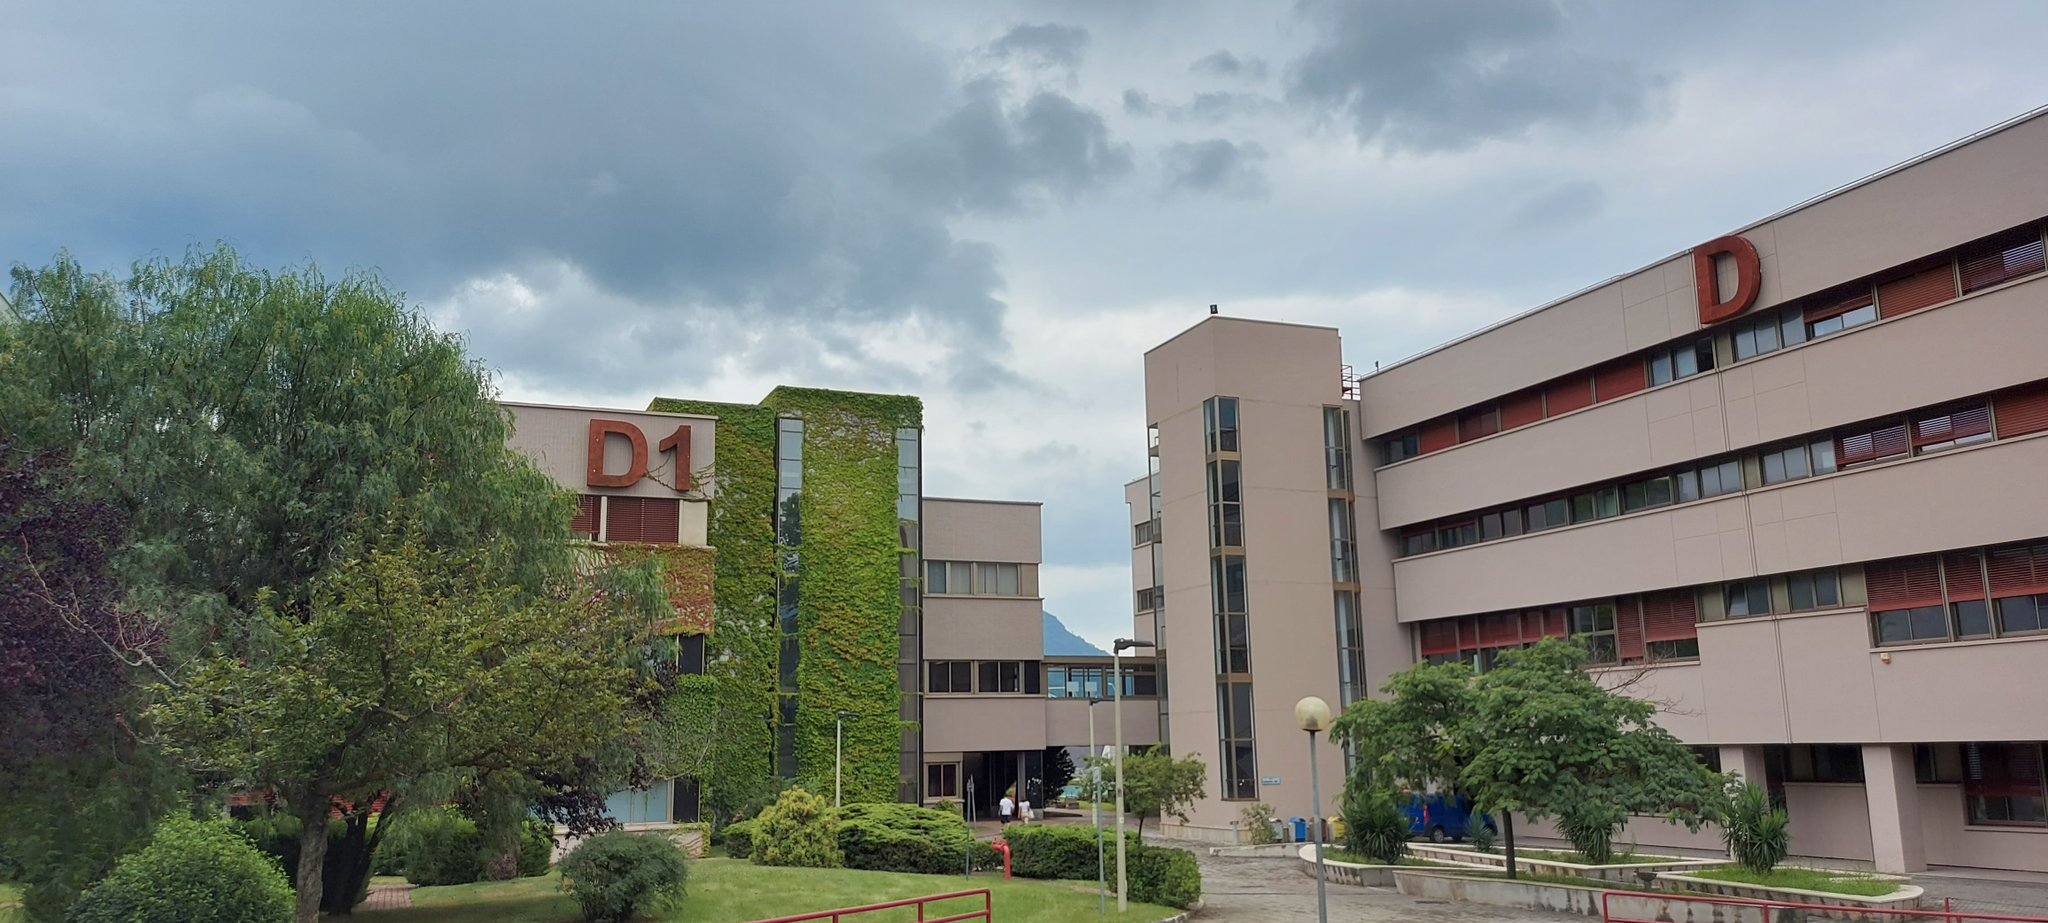
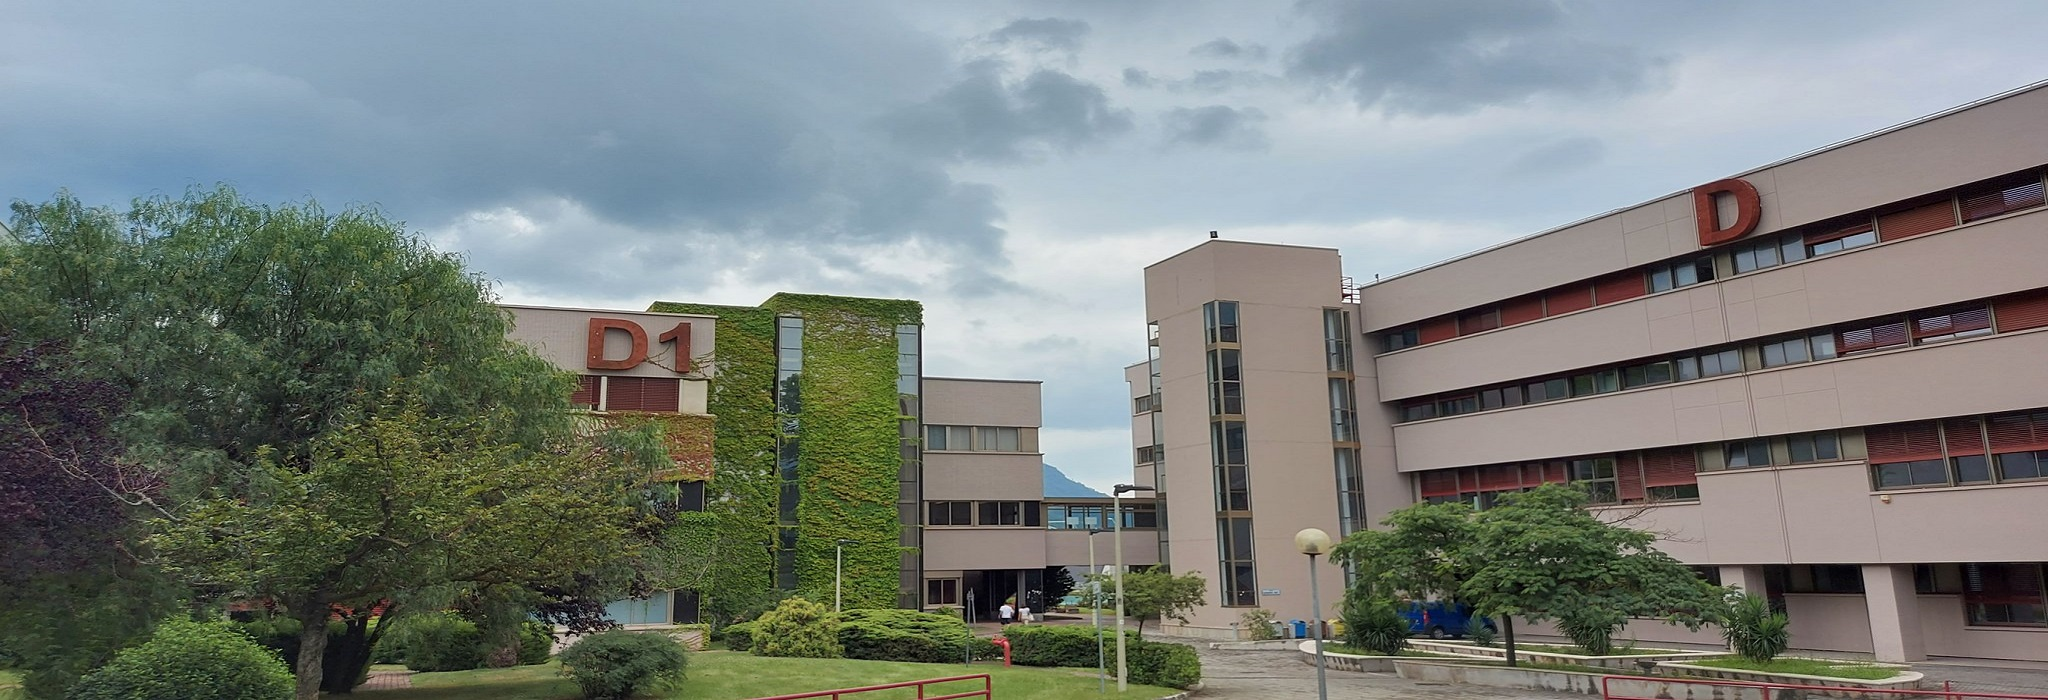
Migliorata l'homepage
-Migliore grafiche superficiali ad altre pagine

diff --git a/src/views/components/gestioneChat/chat.js b/src/views/components/gestioneChat/chat.js
@@ -104,7 +104,6 @@ function Chat()
 
 
 
-
     //ComponentDidMount
     useEffect(() => {
 
@@ -295,15 +294,19 @@ function Chat()
                 .then(response => {
                     //TODO gestire l'errore
                     if(!(response.data.hasOwnProperty("error"))) {
-                    socket.current.emit("sendMessage", {
-                        id : response.data.id,
-                        conversazioneId : response.data.conversazioneId,
-                        senderEmail: mittenteEmail,
-                        receiverEmail: destinatarioEmail,
-                        text: messaggioDaInviare,
-                    })
+                        socket.current.emit("sendMessage", {
+                            id : response.data.id,
+                            conversazioneId : response.data.conversazioneId,
+                            senderEmail: mittenteEmail,
+                            receiverEmail: destinatarioEmail,
+                            text: messaggioDaInviare,
+                        })
 
-                        axios.post('http://localhost:8080/api/messaggio/getMessages', {conversazioneId: conversazione.id})
+                        let array = [...messaggi,response.data]
+
+                        setMessaggi(array)
+
+                        /*axios.post('http://localhost:8080/api/messaggio/getMessages', {conversazioneId: conversazione.id})
                             .then(response => {
                                 setMessaggi(response.data)
                                 var objDiv = document.getElementById("testBox");
@@ -311,7 +314,7 @@ function Chat()
                             })
                             .catch((error) => {
                                 console.log(error);
-                            })
+                            })*/
                 }
                 else
                     console.log(response.data.message)
@@ -420,13 +423,6 @@ function Chat()
                                                     return (
                                                         <div key={i} className="media w-50 ml-auto mb-3">
                                                             <div className="bg-light rounded py-2 px-3 mb-2">
-                                                                <div className="dropdown">
-                                                                    <img className="c-moreImage" src={more} />
-                                                                    <div className="dropdown-content">
-                                                                        <div onClick={() => onClickEliminaMessaggio(messaggio.id)}>Rimuovi</div>
-                                                                        <div onClick={() => onClickModificaMessaggio(messaggio.id,messaggio.testo)}>Modifica</div>
-                                                                    </div>
-                                                                </div>
                                                                 <p className="text-small mb-0 text-black">
                                                                     {messaggio.testo}
                                                                 </p>

diff --git a/src/views/components/App/Homepage.js b/src/views/components/App/Homepage.js
@@ -3,7 +3,9 @@ import {Carousel, Image} from "react-bootstrap";
 import {useState} from "react";
 import slide1 from "../../assets/slide1.jpg"
 import slide2 from "../../assets/slide2.jpg"
-import mensa5 from "../../assets/mensa5.jpg"
+import slide3 from "../../assets/slide3.jpg"
+import slide5 from "../../assets/slide5.jpg"
+import slide6 from "../../assets/slide6.jpg"
 import Chat from "../gestioneChat/chat";
 
 import "../../styles/AppStyle/Homepage.css"
@@ -20,9 +22,8 @@ function Homepage() {
                 <Carousel.Item className="carouselInnerContainer">
                     <Image
                         className="d-block w-100"
-
-                        height="600px"
                         src={slide1}
+                        height="700px"
                         alt="First slide"
                     />
                     <Carousel.Caption>
@@ -33,8 +34,20 @@ function Homepage() {
                 <Carousel.Item className="carouselInnerContainer">
                     <Image
                         className="d-block w-100"
-                        height="600px"
-                        src={slide2}
+                        src={slide5}
+                        height="700px"
+                        alt="First slide"
+                    />
+                    <Carousel.Caption>
+                        <h3>Vivi il campus</h3>
+                        <p>App unisaEAT</p>
+                    </Carousel.Caption>
+                </Carousel.Item>
+                <Carousel.Item className="carouselInnerContainer">
+                    <Image
+                        className="d-block w-100"
+                        src={slide6}
+                        height="700px"
                         alt="Second slide"
                     />
 
@@ -46,8 +59,8 @@ function Homepage() {
                 <Carousel.Item>
                     <Image
                         className="d-block w-100"
-                        src={mensa5}
-                        height="600px"
+                        src={slide2}
+                        height="700px"
                         alt="Third slide"
                     />
 
@@ -56,8 +69,19 @@ function Homepage() {
                         <p>vivi il campus</p>
                     </Carousel.Caption>
                 </Carousel.Item>
+                <Carousel.Item className="carouselInnerContainer">
+                    <Image
+                        className="d-block w-100"
+                        src={slide3}
+                        height="700px"
+                        alt="First slide"
+                    />
+                    <Carousel.Caption>
+                        <h3>Vivi il campus</h3>
+                        <p>App unisaEAT</p>
+                    </Carousel.Caption>
+                </Carousel.Item>
             </Carousel>
-            <Chat/>
         </div>
 
     );

diff --git a/src/index.js b/src/index.js
@@ -6,14 +6,31 @@ import App from "./App";
 import NavbarApp from "./views/components/App/NavbarApp";
 import Footer from "./views/components/App/Footer";
 import NavbarAttore from "./views/components/App/NavbarAttore";
+import Chat from "./views/components/gestioneChat/chat";
 
 
-ReactDOM.render(
-    <BrowserRouter>
-        <NavbarApp/>
-        {/*<NavbarAttore/>*/}
-        <App/>
-        <Footer/>
-    </BrowserRouter>,
-    document.getElementById("root")
-);
+//Controllo per la visualizzazione della chat
+if(localStorage.getItem("email") && (localStorage.getItem("ruolo")=="cliente") || (localStorage.getItem("ruolo")=="personale adisu"))
+{
+    ReactDOM.render(
+        <BrowserRouter>
+            <NavbarApp/>
+            {/*<NavbarAttore/>*/}
+            <App/>
+            <Chat/>
+            <Footer/>
+        </BrowserRouter>,
+        document.getElementById("root")
+    );
+}
+else {
+    ReactDOM.render(
+        <BrowserRouter>
+            <NavbarApp/>
+            {/*<NavbarAttore/>*/}
+            <App/>
+            <Footer/>
+        </BrowserRouter>,
+        document.getElementById("root")
+    );
+}

diff --git a/src/views/styles/AppStyle/Homepage.css b/src/views/styles/AppStyle/Homepage.css
@@ -7,12 +7,5 @@ body
 }
 .carousel-container
 {
-    width: 60%;
-    margin: auto;
-    margin-top: 60px;
-}
-
-.carousel-inner
-{
-    border-radius: 20px;
+    margin-bottom: 0px;
 }

diff --git a/src/views/styles/AppStyle/Footer.css b/src/views/styles/AppStyle/Footer.css
@@ -2,7 +2,6 @@ footer {
     background: #16222A;
     background-image: linear-gradient(889deg, #29539b 0%, #1e3b70 64%);
     color: white;
-    margin-top:10%;
 }
 
 footer a {

diff --git a/src/views/styles/gestioneTesserino/visualizzaSaldoCSS.css b/src/views/styles/gestioneTesserino/visualizzaSaldoCSS.css
@@ -15,6 +15,7 @@
 
 .containerSaldo {
     margin-top: 5%;
+    margin-bottom: 10% !important;
     width: 30%;
     overflow: hidden;
     border-radius: 15px!important;

diff --git a/src/views/styles/gestioneTesserino/ricaricaTesserinoCSS.css b/src/views/styles/gestioneTesserino/ricaricaTesserinoCSS.css
@@ -109,6 +109,7 @@ wrapper a {
     display: flex;
     width: 50%;
     margin-top: 50px;
+    margin-bottom: 10%;
 }
 
 .pagamentoWrapper {

diff --git a/src/views/styles/gestioneOrdinePasto/sceltaPastiCSS.css b/src/views/styles/gestioneOrdinePasto/sceltaPastiCSS.css
@@ -14,6 +14,7 @@
 {
     margin-left: 50px;
     margin-right: 50px;
+    margin-bottom: 10%;
 
 }
 .sp-navPortata
